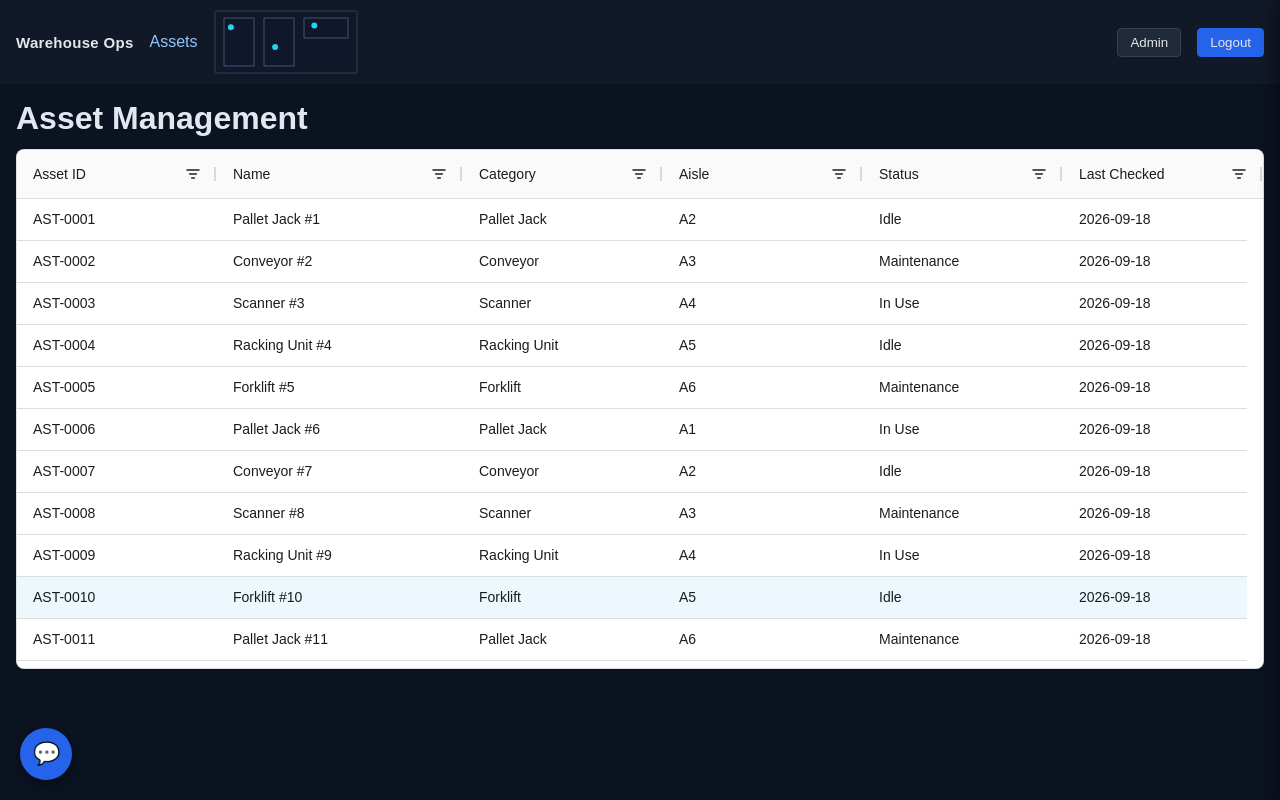
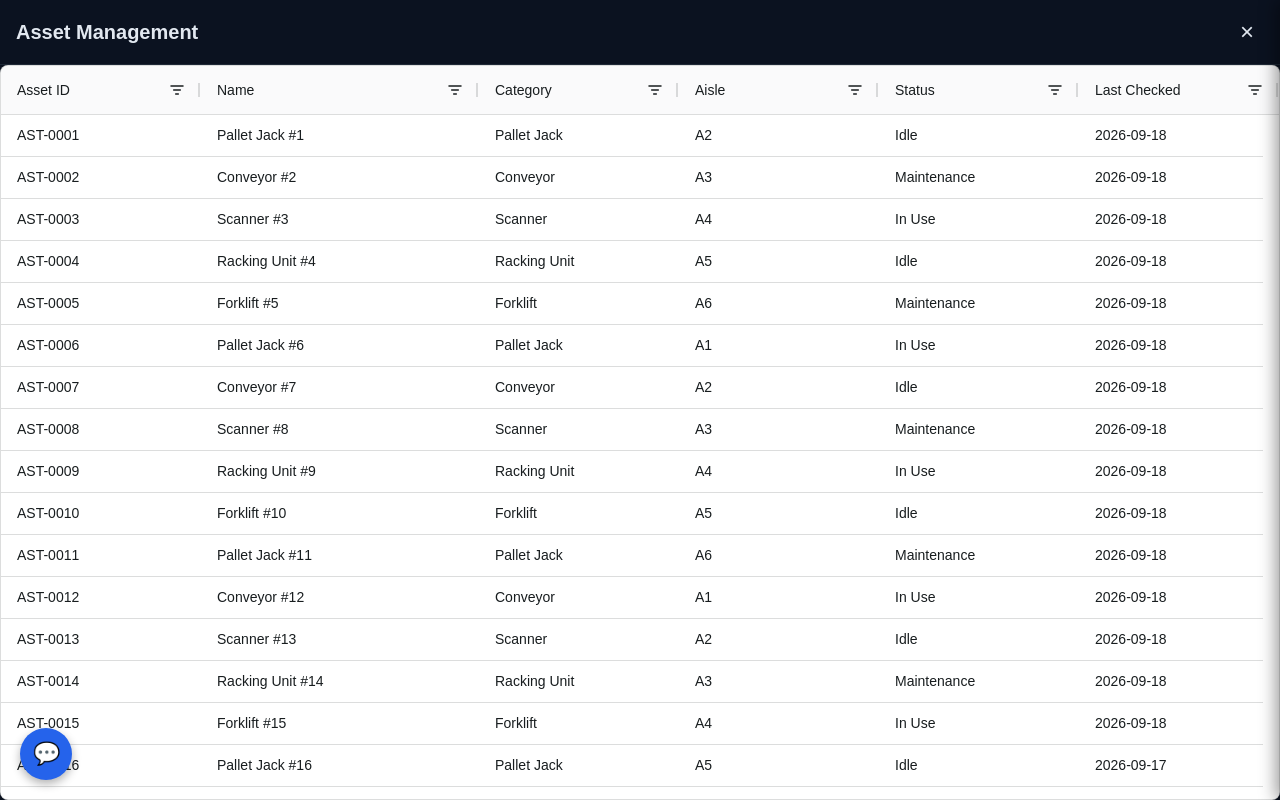
docs: update for the basemap layer, closeable Assets overlay
- README: 4 -> 5 layout patterns, updated quick-start table/screenshots
  to describe the base map + full-screen Assets behavior, "How it
  works" ASCII diagram replaced with a Mermaid flowchart.
- docs/CONFIGURATION.md: layout patterns table gets the basemap row
  and assets' new container; added the reasoning for keeping basemap
  a separate MFE and the overlay's z-index ordering relative to the
  drawer/widget.
- New screenshots from the same Playwright run that verified the code
  change, replacing the old #main-based Assets captures.

diff --git a/docs/CONFIGURATION.md b/docs/CONFIGURATION.md
@@ -9,7 +9,7 @@ vocabulary and [docs/adr/](adr/) for why things are built this way.
 ```yaml
 name: assets                 # unique app name
 entry: "https://cdn.example.com/assets/assets.js"   # SystemJS bundle URL, loaded by the BROWSER
-container: "#main"           # CSS selector the app mounts into (auto-created if missing - see Layout patterns)
+container: "#wh-assets-overlay"  # CSS selector the app mounts into (auto-created if missing - see Layout patterns)
 activeWhen: "/assets"        # single-spa route prefix (string or array)
 public: false                # optional, default false — see Authentication section
 requiredRoles:                # optional — Keycloak realm roles, ANY of which grant access
@@ -31,23 +31,42 @@ broken shell.
 
 ## Layout patterns
 
-The four warehouse MFEs deliberately exercise four different ways an MFE
+The five warehouse MFEs deliberately exercise five different ways an MFE
 can occupy the page, to prove the config-driven approach isn't just for
 "one route = one full page":
 
 | Pattern | MFE | `container` | `activeWhen` |
 |---|---|---|---|
+| Full-viewport base layer, z-index 0 | `basemap` | `#wh-basemap` (**not** in `index.html`) | `/` (always) |
 | Top bar, in normal document flow | `navbar` | `#navbar` (pre-defined in `index.html`) | `/` (always) |
-| Full page | `assets` | `#main` (pre-defined in `index.html`) | `/assets` |
+| Dismissible full-screen overlay | `assets` | `#wh-assets-overlay` (**not** in `index.html`) | `/assets` |
 | Floating drawer, 25% width | `admin-panel` | `#wh-admin-drawer` (**not** in `index.html`) | `/` (always mounted; visibility toggled internally, not by route) |
 | Floating widget (bottom-right) | `comms` | `#wh-comms-widget` (**not** in `index.html`) | `/` (always) |
 
-The two floating ones prove [ADR-0002](adr/0002-auto-vivify-mfe-containers.md):
+Four of these five prove [ADR-0002](adr/0002-auto-vivify-mfe-containers.md):
 root-config creates a missing container itself (appended to
 `document.body`) rather than requiring every MFE's mount point to
-pre-exist in `index.html`. Whether something reads as "full page" vs.
-"floating drawer" vs. "floating bubble" is entirely the MFE's own CSS
-(`position: fixed` + width/placement) — root-config doesn't know or care.
+pre-exist in `index.html` — `navbar` is the only one that still needs a
+pre-defined region, because it must sit in normal document flow relative
+to other static content. Whether something reads as a full-viewport
+backdrop vs. a full-screen overlay vs. a floating drawer vs. a floating
+bubble is entirely the MFE's own CSS (`position: fixed` + z-index +
+width/placement) — root-config doesn't know or care; it only guarantees
+the element exists.
+
+The **basemap** stays mounted underneath everything (z-index 0) rather
+than being folded into the navbar's own markup, even though visually it
+reads as "the navbar's background" — keeping it a separate MFE means it
+can be swapped, sized, or removed independently, and demonstrates that a
+"layer" is just another MFE, not a special root-config concept.
+
+The **assets** full-screen overlay (`z-index: 500`) covers the navbar and
+basemap entirely while open — a genuine takeover, not an in-flow content
+panel — and is dismissed by its own close button (a plain `<a href="/">`,
+using the same single-spa anchor-click routing every other in-app link
+uses) or any other in-app navigation away from `/assets`. It's rendered
+below the admin drawer and comms widget (`z-index: 1000`), so those stay
+usable while Assets is open.
 
 The admin drawer's open/close trigger lives in the **navbar** MFE, not in
 the admin-panel MFE itself — a deliberate test of cross-MFE coordination,
@@ -135,7 +154,7 @@ CORE (the actual root-config engine — this is what you'd extract into your own
 └── public/                     The layout shell (index.html) + Keycloak's silent-check-sso.html.
 
 EXAMPLES (throwaway scaffolding for the demo — not part of the product)
-├── examples/demo-mfes/         Four warehouse-themed MFEs exercising all 4 layout patterns.
+├── examples/demo-mfes/         Five warehouse-themed MFEs exercising all 5 layout patterns.
 ├── examples/keycloak/          Realm export auto-imported by the demo's Keycloak container.
 └── docker-compose.yml          Wires core + examples into one runnable stack (repo root, not under examples/,
                                  since it's the thing you run - but everything it points at under examples/ is disposable).

diff --git a/README.md b/README.md
@@ -8,8 +8,9 @@ route, and who's allowed to see it (public / any logged-in user /
 role-gated via Keycloak).
 
 Fully containerized. The included demo is a warehouse-ops shell
-exercising 4 layout patterns (top navbar, full page, floating drawer,
-floating widget) against a real Keycloak instance.
+exercising 5 layout patterns (full-viewport base layer, top navbar,
+dismissible full-screen overlay, floating drawer, floating widget)
+against a real Keycloak instance.
 
 ## Quick start
 
@@ -20,15 +21,18 @@ docker compose up --build
 Give Keycloak ~10-15s to finish importing its demo realm, then open
 **http://localhost:8090**.
 
+The warehouse floor plan is always visible as a base layer behind
+everything else, with worker dots that drift every couple of seconds.
+
 | Try it as | Password | You'll see |
 |---|---|---|
-| (stay logged out) | — | navbar + comms bubble |
-| **bob** | `password` | + Assets page (`/assets`) |
-| **alice** | `password` | + Assets, + an "Admin" button that opens a drawer |
+| (stay logged out) | — | base map + navbar + comms bubble |
+| **bob** | `password` | + "Assets" opens a closeable, full-screen grid |
+| **alice** | `password` | + an "Admin" button that opens a drawer |
 
-| Logged out | bob (authenticated) | alice (admin) |
+| Base map + navbar | Assets, full-screen (bob) | Admin drawer + comms open (alice) |
 |---|---|---|
-| ![Logged out: navbar + comms bubble only](docs/screenshots/01-logged-out.png) | ![bob: navbar + Assets grid](docs/screenshots/02-bob-assets.png) | ![alice: navbar + Assets + Admin button](docs/screenshots/03-alice-assets.png) |
+| ![Logged out: base map, navbar, comms bubble](docs/screenshots/01-logged-out.png) | ![bob: full-screen Assets grid with a close button](docs/screenshots/02-bob-assets.png) | ![alice: admin drawer and comms panel open together over the base map](docs/screenshots/05-alice-comms-open.png) |
 
 To see a config-only change take effect, edit a file under `mfes/` then
 `docker compose restart root-config` — no rebuild needed, `mfes/` is a
@@ -36,8 +40,11 @@ mounted volume, not baked into the image.
 
 ## How it works
 
-```
-mfes/*.yaml  --(build-mfe-config.js)-->  dist/mfes.json  --(fetch)-->  root-config.js  --(registerApplication)-->  single-spa
+```mermaid
+flowchart LR
+    A["mfes/*.yaml"] -->|build-mfe-config.js| B["dist/mfes.json"]
+    B -->|fetch| C["root-config.js"]
+    C -->|registerApplication| D["single-spa"]
 ```
 
 `root-config.js` is generic — it has no knowledge of any specific MFE,
@@ -52,7 +59,7 @@ One YAML file per MFE, in `mfes/`:
 ```yaml
 name: assets                 # unique app name
 entry: "https://cdn.example.com/assets/assets.js"   # SystemJS bundle URL, loaded by the BROWSER
-container: "#main"           # CSS selector the app mounts into (auto-created if missing)
+container: "#wh-assets-overlay"  # CSS selector the app mounts into (auto-created if missing)
 activeWhen: "/assets"        # single-spa route prefix (string or array)
 public: false                # optional, default false — see Authentication below
 requiredRoles:                # optional — Keycloak realm roles, ANY of which grant access
@@ -66,7 +73,7 @@ browser can reach — not just something reachable inside a Docker network.
 `container` doesn't have to already exist in `index.html`: if it's
 missing, root-config creates it for you, which is how floating
 widgets/drawers work with no layout-file changes. Full reference,
-including the four layout patterns this enables:
+including the five layout patterns this enables:
 [docs/CONFIGURATION.md](docs/CONFIGURATION.md#mfe-config-reference).
 
 ## Authentication & role-based visibility
@@ -106,7 +113,7 @@ updates `CHANGELOG.md` via `commit-and-tag-version`. See
 ## Learn more
 
 - **[docs/CONFIGURATION.md](docs/CONFIGURATION.md)** — the exhaustive
-  version of the two sections above, plus the four layout patterns
+  version of the two sections above, plus the five layout patterns
   explained, the demo Keycloak realm's details, the repo's
   core-vs-examples layout, adding a real MFE, and the RepoWise/OpenWiki
   documentation tooling.
